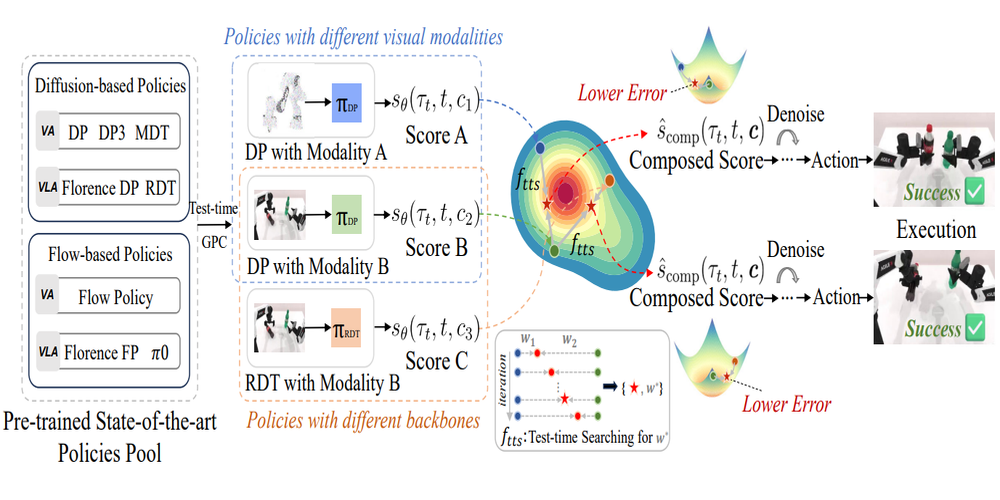
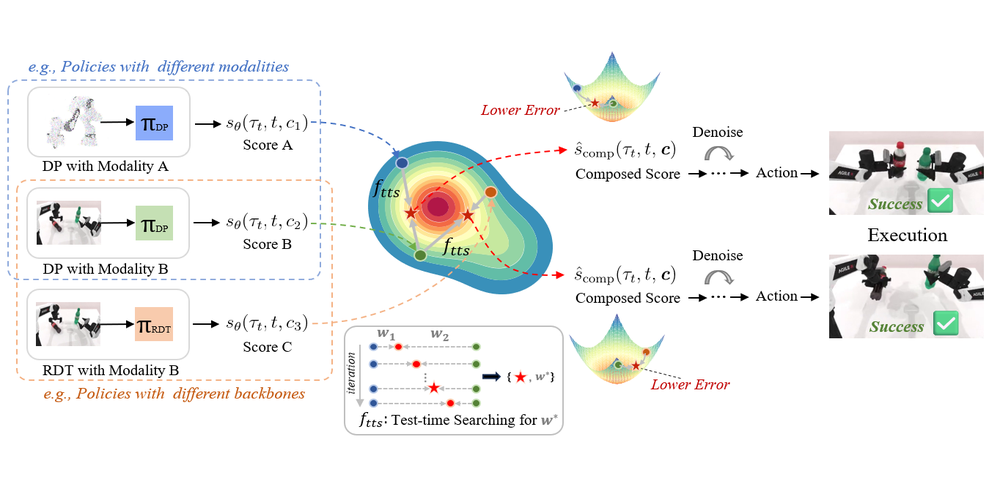
update

Changed region(s): [[0.0, 0.06, 1.0, 0.93], [0.217, 0.06, 0.527, 0.12]]

diff --git a/index.html b/index.html
@@ -290,16 +290,16 @@
                 document.getElementById("email").innerHTML = `<a href="${mailto}">${email}</a>`;
               </script>
               
-              
-              
-              
-              <!-- News Section 美化版 -->
 
 
               <div style="margin-top: 30px;">
                 <h3 style="font-size: 20px; font-weight: bold;">News</h3>
                 <div class="table-responsive" style="max-height: 200px; overflow-y: auto; padding: 10px;">
                   <table class="table table-sm table-borderless mb-0">
+                    <tr>
+                      <td style="width: 120px; white-space: nowrap; color: #555;">Jan 27, 2026</td>
+                      <td><a href="https://sagecao1125.github.io/GPC-Site/" style="color: rgb(26, 115, 206);">GPC</a> is accepted to ICLR 2026! And <a href="https://zheng-joe-lee.github.io/manivid3d/" style="color: rgb(26, 115, 206);">ManiVID-3D</a> is accepted to RAL 2026!</td>
+                    </tr>
                     <tr>
                       <td style="width: 120px; white-space: nowrap; color: #555;">August 7, 2025</td>
                       <td><a href="https://ieeexplore.ieee.org/abstract/document/11066249/" style="color: rgb(26, 115, 206);">G2-SDF</a> is accepted to RAL 2025, and two papers (<a href="https://arxiv.org/abs/2405.20090" style="color: rgb(26, 115, 206);">Transfer Attack in MLLM</a>, <a href="https://arxiv.org/abs/2507.22501" style="color: rgb(26, 115, 206);">DACA-Net</a>) are accepted to ACM MM 2025. And we recently release <a href="https://humanoid-occupancy.github.io/" style="color: rgb(26, 115, 206);">Humanoid Occupancy</a>, a generalized multimodal occupancy perception system for humanoid robots.</td>
